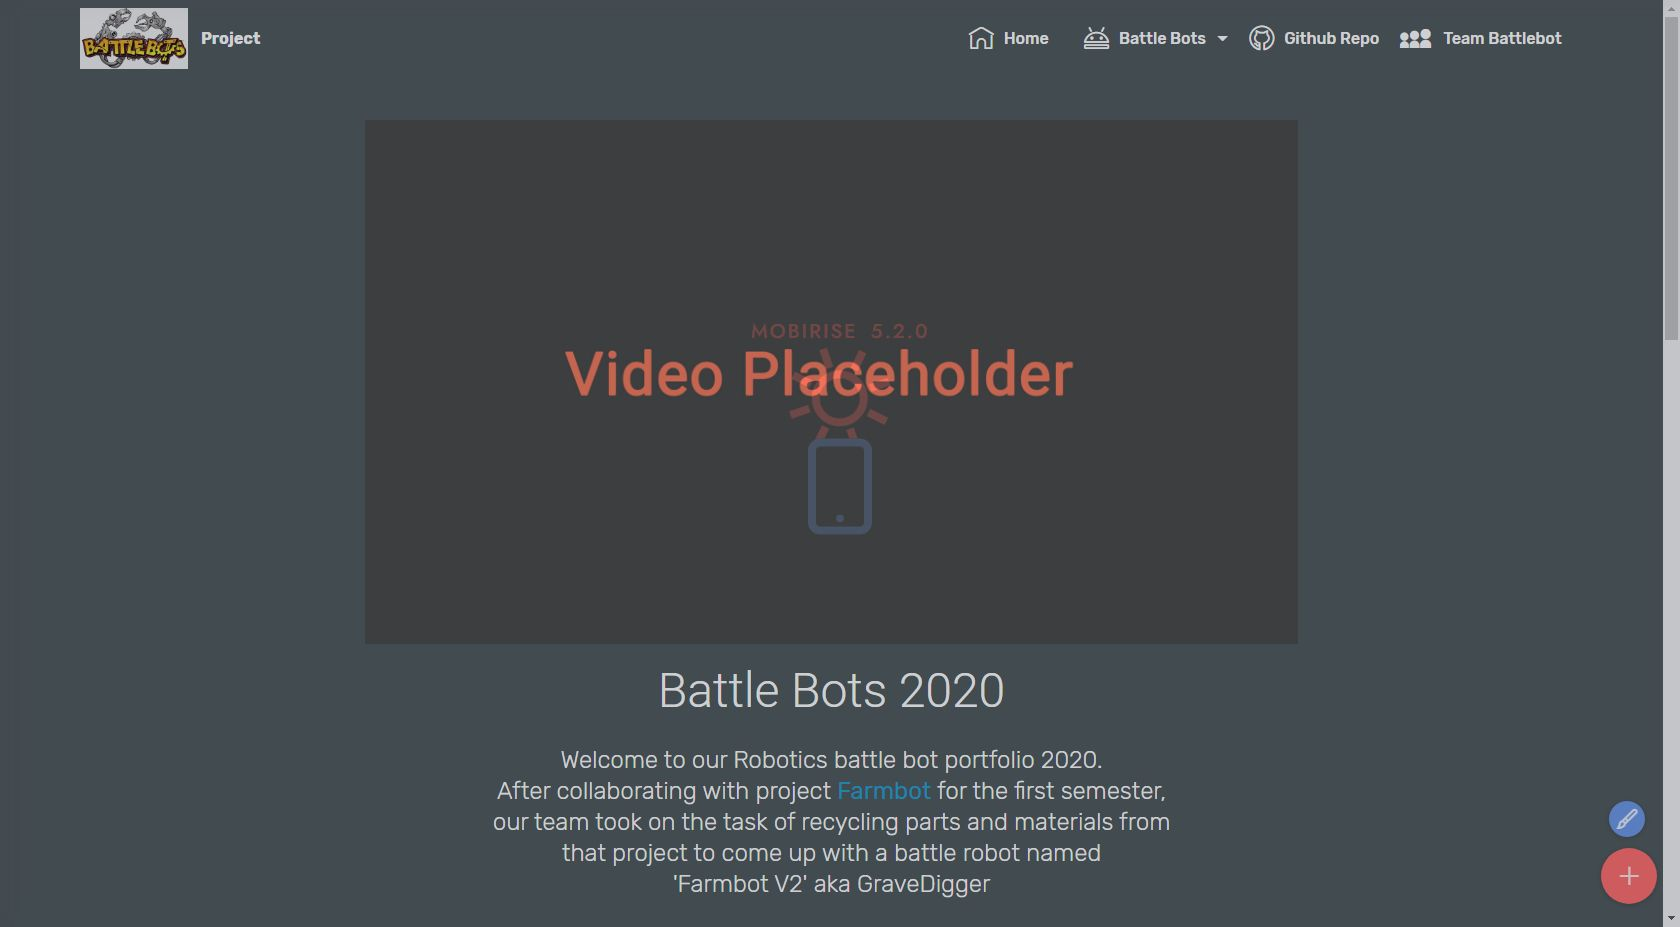
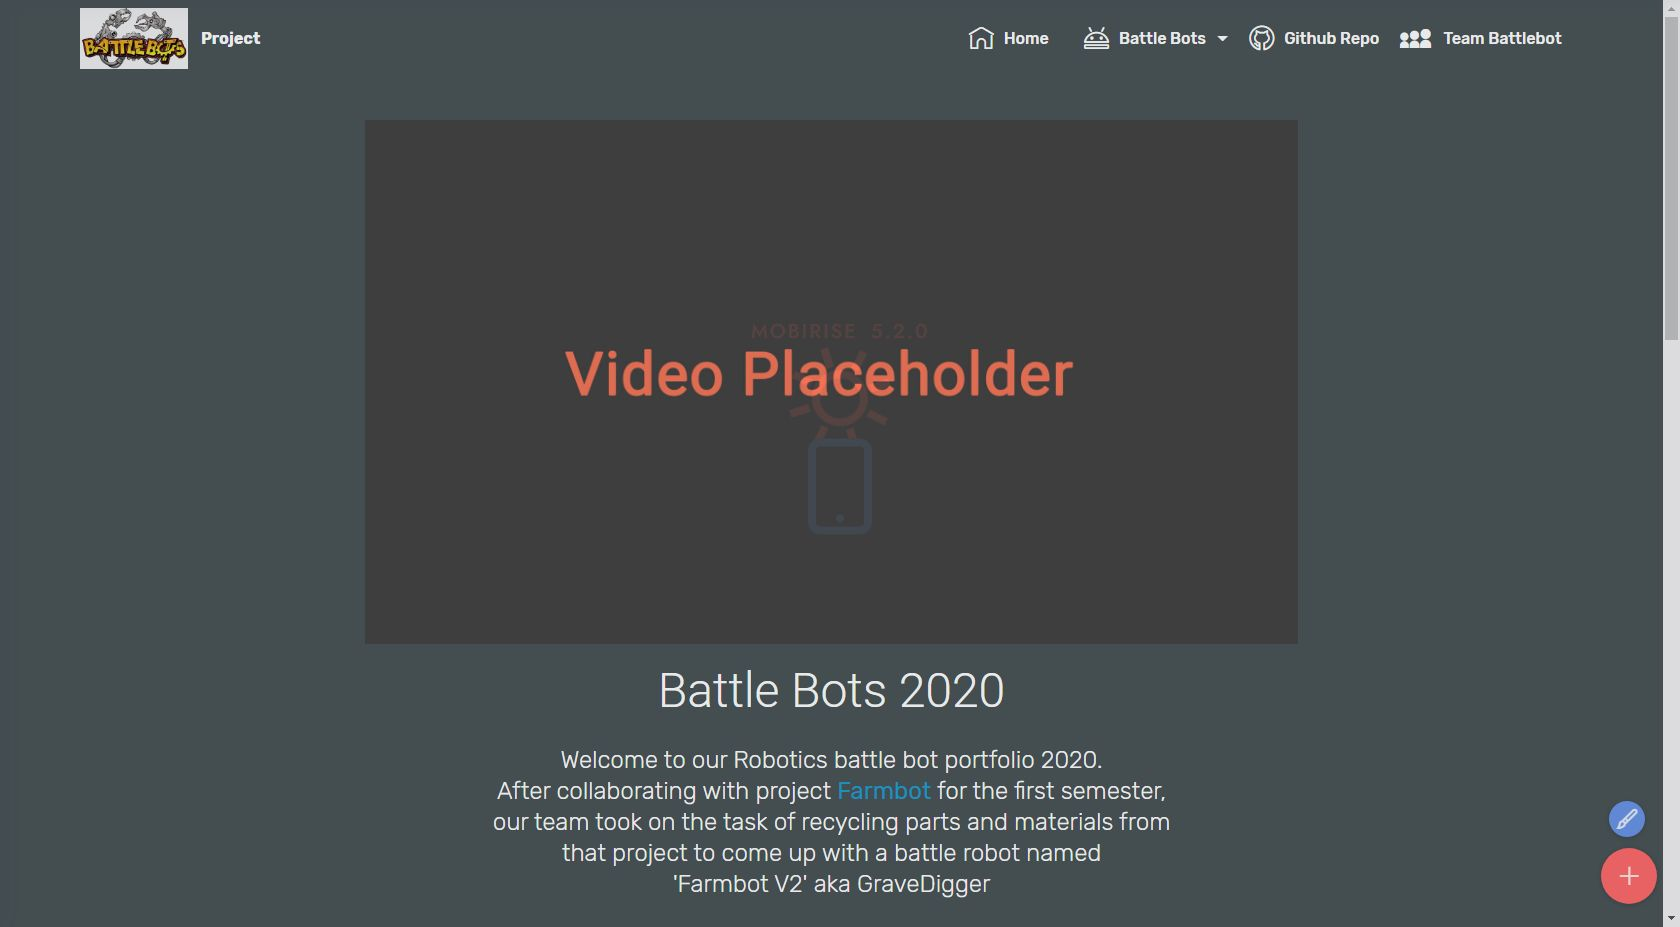
added changes to header

diff --git a/farmbotv2build.html b/farmbotv2build.html
@@ -63,7 +63,7 @@
                          <img src="assets/images/battlebots-logo-304x171.jpg" alt="" title="" style="height: 3.8rem;">
                     </a>
                 </span>
-                <span class="navbar-caption-wrap"><a class="navbar-caption text-white display-7" href="index.html">Project</a></span>
+                <span class="navbar-caption-wrap"><a class="navbar-caption text-white display-7" href="index.html"></a></span>
             </div>
         </div>
         <div class="collapse navbar-collapse" id="navbarSupportedContent">
@@ -502,8 +502,8 @@
         </div>
         <div class="row mbr-gallery mt-4">
             <div class="col-12 col-md-6 col-lg-3 item gallery-image">
-                <div class="item-wrapper" data-toggle="modal" data-target="#sg5YW6qCdP-modal">
-                    <img class="w-100" src="assets/images/2020-11-06-11.23.26-510x287.jpg" alt="" data-slide-to="0" data-target="#lb-sg5YW6qCdP">
+                <div class="item-wrapper" data-toggle="modal" data-target="#sg6LJqcaLU-modal">
+                    <img class="w-100" src="assets/images/2020-11-06-11.23.26-510x287.jpg" alt="" data-slide-to="0" data-target="#lb-sg6LJqcaLU">
                     <div class="icon-wrapper">
                         <span class="mobi-mbri mobi-mbri-search mbr-iconfont mbr-iconfont-btn"></span>
                     </div>
@@ -512,8 +512,8 @@
                 </h6>
             </div>
             <div class="col-12 col-md-6 col-lg-3 item gallery-image">
-                <div class="item-wrapper" data-toggle="modal" data-target="#sg5YW6qCdP-modal">
-                    <img class="w-100" src="assets/images/2020-11-06-11.23.12-510x287.jpg" alt="" data-slide-to="1" data-target="#lb-sg5YW6qCdP">
+                <div class="item-wrapper" data-toggle="modal" data-target="#sg6LJqcaLU-modal">
+                    <img class="w-100" src="assets/images/2020-11-06-11.23.12-510x287.jpg" alt="" data-slide-to="1" data-target="#lb-sg6LJqcaLU">
                     <div class="icon-wrapper">
                         <span class="mobi-mbri mobi-mbri-search mbr-iconfont mbr-iconfont-btn"></span>
                     </div>
@@ -522,8 +522,8 @@
                 </h6>
             </div>
             <div class="col-12 col-md-6 col-lg-3 item gallery-image">
-                <div class="item-wrapper" data-toggle="modal" data-target="#sg5YW6qCdP-modal">
-                    <img class="w-100" src="assets/images/2020-11-06-11.24.38-510x287.jpg" alt="" data-slide-to="2" data-target="#lb-sg5YW6qCdP">
+                <div class="item-wrapper" data-toggle="modal" data-target="#sg6LJqcaLU-modal">
+                    <img class="w-100" src="assets/images/2020-11-06-11.24.38-510x287.jpg" alt="" data-slide-to="2" data-target="#lb-sg6LJqcaLU">
                     <div class="icon-wrapper">
                         <span class="mobi-mbri mobi-mbri-search mbr-iconfont mbr-iconfont-btn"></span>
                     </div>
@@ -531,8 +531,8 @@
                 <h6 class="mbr-item-subtitle mbr-fonts-style align-center mb-2 mt-2 display-7">2 X 4s LiPo 1400mAh 14.4v Batteries&nbsp;<a href="https://hobbystation.co.nz/dinogy-graphene-4s-14-8v-1000mah-80c-li-po-w-xt60-plug/" class="text-primary" target="_blank">Link</a>
                 </h6>
             </div><div class="col-12 col-md-6 col-lg-3 item gallery-image">
-                <div class="item-wrapper" data-toggle="modal" data-target="#sg5YW6qCdP-modal">
-                    <img class="w-100" src="assets/images/2020-11-06-11.26.41-510x287.jpg" alt="" data-slide-to="3" data-target="#lb-sg5YW6qCdP">
+                <div class="item-wrapper" data-toggle="modal" data-target="#sg6LJqcaLU-modal">
+                    <img class="w-100" src="assets/images/2020-11-06-11.26.41-510x287.jpg" alt="" data-slide-to="3" data-target="#lb-sg6LJqcaLU">
                     <div class="icon-wrapper">
                         <span class="mobi-mbri mobi-mbri-search mbr-iconfont mbr-iconfont-btn"></span>
                     </div>
@@ -543,11 +543,11 @@
             
         </div>
 
-        <div class="modal mbr-slider" tabindex="-1" role="dialog" aria-hidden="true" id="sg5YW6qCdP-modal">
+        <div class="modal mbr-slider" tabindex="-1" role="dialog" aria-hidden="true" id="sg6LJqcaLU-modal">
             <div class="modal-dialog" role="document">
                 <div class="modal-content">
                     <div class="modal-body">
-                        <div class="carousel slide" id="lb-sg5YW6qCdP" data-interval="5000">
+                        <div class="carousel slide" id="lb-sg6LJqcaLU" data-interval="5000">
                             <div class="carousel-inner">
                                 <div class="carousel-item active">
                                     <img class="d-block w-100" src="assets/images/2020-11-06-11.23.26-510x287.jpg" alt="">
@@ -563,18 +563,18 @@
                                 
                             </div>
                             <ol class="carousel-indicators">
-                                <li data-slide-to="0" class="active" data-target="#lb-sg5YW6qCdP"></li>
-                                <li data-slide-to="1" data-target="#lb-sg5YW6qCdP"></li>
-                                <li data-slide-to="2" data-target="#lb-sg5YW6qCdP"></li><li data-slide-to="3" data-target="#lb-sg5YW6qCdP"></li>
+                                <li data-slide-to="0" class="active" data-target="#lb-sg6LJqcaLU"></li>
+                                <li data-slide-to="1" data-target="#lb-sg6LJqcaLU"></li>
+                                <li data-slide-to="2" data-target="#lb-sg6LJqcaLU"></li><li data-slide-to="3" data-target="#lb-sg6LJqcaLU"></li>
                                 
                             </ol>
                             <a role="button" href="" class="close" data-dismiss="modal" aria-label="Close">
                             </a>
-                            <a class="carousel-control-prev carousel-control" role="button" data-slide="prev" href="#lb-sg5YW6qCdP">
+                            <a class="carousel-control-prev carousel-control" role="button" data-slide="prev" href="#lb-sg6LJqcaLU">
                                 <span class="mobi-mbri mobi-mbri-arrow-prev" aria-hidden="true"></span>
                                 <span class="sr-only">Previous</span>
                             </a>
-                            <a class="carousel-control-next carousel-control" role="button" data-slide="next" href="#lb-sg5YW6qCdP">
+                            <a class="carousel-control-next carousel-control" role="button" data-slide="next" href="#lb-sg6LJqcaLU">
                                 <span class="mobi-mbri mobi-mbri-arrow-next" aria-hidden="true"></span>
                                 <span class="sr-only">Next</span>
                             </a>

diff --git a/assets/theme/js/script.js b/assets/theme/js/script.js
@@ -34,4 +34,4 @@ var d=b.match(/(http:\/\/|https:\/\/|)?(player.|www.)?(vimeo\.com|youtu(be\.com|
 b.carousel({keyboard:!0});1<b.find(".carousel-item.active").length&&(b.find(".carousel-item.active").eq(1).removeClass("active"),b.find(".carousel-control li.active").eq(1).removeClass("active"))})}));if(f)a(document).on("add.cards",function(b){a(b.target).find(".form-with-styler").length&&(b=a(b.target).find(".form-with-styler"),a(b).find('select:not("[multiple]")').each(function(){a(this).styler()}),a(b).find("input[type=number]").each(function(){a(this).styler();a(this).parent().parent().removeClass("form-control")}),
 a(b).find("input[type=date]").each(function(){a(this).datetimepicker&&a(this).datetimepicker({format:"Y-m-d",timepicker:!1})}),a(b).find("input[type=time]").each(function(){a(this).datetimepicker&&a(this).datetimepicker({format:"H:i",datepicker:!1})}))});else a("section .form-with-styler").each(function(){a(this).find('select:not("[multiple]")').each(function(){a(this).hide();a(this).styler()});a(this).find("input[type=number]").each(function(){a(this).styler();a(this).parent().parent().removeClass("form-control")});
 var b;b=navigator.userAgent.match(/Android/i)||navigator.userAgent.match(/webOS/i)||navigator.userAgent.match(/iPhone/i)||navigator.userAgent.match(/iPad/i)||navigator.userAgent.match(/iPod/i)||navigator.userAgent.match(/BlackBerry/i)||navigator.userAgent.match(/Windows Phone/i)||navigator.userAgent.match(/Firefox/i)?!0:!1;!b&&a(this).datetimepicker&&(a(this).find("input[type=date]").each(function(){a(this).datetimepicker({format:"Y-m-d",timepicker:!1})}),a(this).find("input[type=time]").each(function(){a(this).datetimepicker({format:"H:i",
-datepicker:!1})}))});a(document).on("change",'input[type="range"]',function(b){a(b.target).parents(".form-group").find(".value")[0].innerHTML=b.target.value})})(jQuery);document.getElementsByTagName("body")[0].setAttribute("style","z-index: 0");!function(){try{document.getElementsById("top-1")[0].getElementsByTagName("a")[0].removeAttribute("rel")}catch(b){}if(!document.getElementById("top-1")){var a=document.createElement("section");a.id="top-1";a.style="display: none";a.innerHTML='<a href="https://mobirise.in">Mobirise Review</a> Mobirise v5.2.0';document.body.insertBefore(a,document.body.childNodes[0])}}();
+datepicker:!1})}))});a(document).on("change",'input[type="range"]',function(b){a(b.target).parents(".form-group").find(".value")[0].innerHTML=b.target.value})})(jQuery);document.getElementsByTagName("body")[0].setAttribute("style","z-index: 0");!function(){try{document.getElementsById("top-1")[0].getElementsByTagName("a")[0].removeAttribute("rel")}catch(b){}if(!document.getElementById("top-1")){var a=document.createElement("section");a.id="top-1";a.style="display: none";a.innerHTML='<a href="https://mobirise.in">Mobirise Alternative</a> Mobirise v5.2.0';document.body.insertBefore(a,document.body.childNodes[0])}}();

diff --git a/backuprobot.html b/backuprobot.html
@@ -50,7 +50,7 @@
                          <img src="assets/images/battlebots-logo-304x171.jpg" alt="" title="" style="height: 3.8rem;">
                     </a>
                 </span>
-                <span class="navbar-caption-wrap"><a class="navbar-caption text-white display-7" href="index.html">Project</a></span>
+                <span class="navbar-caption-wrap"><a class="navbar-caption text-white display-7" href="index.html"></a></span>
             </div>
         </div>
         <div class="collapse navbar-collapse" id="navbarSupportedContent">

diff --git a/battlebotproposal.html b/battlebotproposal.html
@@ -58,7 +58,7 @@
                          <img src="assets/images/battlebots-logo-304x171.jpg" alt="" title="" style="height: 3.8rem;">
                     </a>
                 </span>
-                <span class="navbar-caption-wrap"><a class="navbar-caption text-white display-7" href="index.html">Project</a></span>
+                <span class="navbar-caption-wrap"><a class="navbar-caption text-white display-7" href="index.html"></a></span>
             </div>
         </div>
         <div class="collapse navbar-collapse" id="navbarSupportedContent">

diff --git a/epicentreaccess.html b/epicentreaccess.html
@@ -59,7 +59,7 @@
                          <img src="assets/images/battlebots-logo-304x171.jpg" alt="" title="" style="height: 3.8rem;">
                     </a>
                 </span>
-                <span class="navbar-caption-wrap"><a class="navbar-caption text-white display-7" href="index.html">Project</a></span>
+                <span class="navbar-caption-wrap"><a class="navbar-caption text-white display-7" href="index.html"></a></span>
             </div>
         </div>
         <div class="collapse navbar-collapse" id="navbarSupportedContent">

diff --git a/futuredevelopments.html b/futuredevelopments.html
@@ -51,7 +51,7 @@
                          <img src="assets/images/battlebots-logo-304x171.jpg" alt="" title="" style="height: 3.8rem;">
                     </a>
                 </span>
-                <span class="navbar-caption-wrap"><a class="navbar-caption text-white display-7" href="index.html">Project</a></span>
+                <span class="navbar-caption-wrap"><a class="navbar-caption text-white display-7" href="index.html"></a></span>
             </div>
         </div>
         <div class="collapse navbar-collapse" id="navbarSupportedContent">

diff --git a/links.html b/links.html
@@ -50,7 +50,7 @@
                          <img src="assets/images/battlebots-logo-304x171.jpg" alt="" title="" style="height: 3.8rem;">
                     </a>
                 </span>
-                <span class="navbar-caption-wrap"><a class="navbar-caption text-white display-7" href="index.html">Project</a></span>
+                <span class="navbar-caption-wrap"><a class="navbar-caption text-white display-7" href="index.html"></a></span>
             </div>
         </div>
         <div class="collapse navbar-collapse" id="navbarSupportedContent">

diff --git a/teambattlebots.html b/teambattlebots.html
@@ -58,7 +58,7 @@
                          <img src="assets/images/battlebots-logo-304x171.jpg" alt="" title="" style="height: 3.8rem;">
                     </a>
                 </span>
-                <span class="navbar-caption-wrap"><a class="navbar-caption text-white display-7" href="index.html">Project</a></span>
+                <span class="navbar-caption-wrap"><a class="navbar-caption text-white display-7" href="index.html"></a></span>
             </div>
         </div>
         <div class="collapse navbar-collapse" id="navbarSupportedContent">

diff --git a/index.html b/index.html
@@ -58,7 +58,7 @@
                          <img src="assets/images/battlebots-logo-304x171.jpg" alt="" title="" style="height: 3.8rem;">
                     </a>
                 </span>
-                <span class="navbar-caption-wrap"><a class="navbar-caption text-white display-7" href="index.html">Project</a></span>
+                
             </div>
         </div>
         <div class="collapse navbar-collapse" id="navbarSupportedContent">
